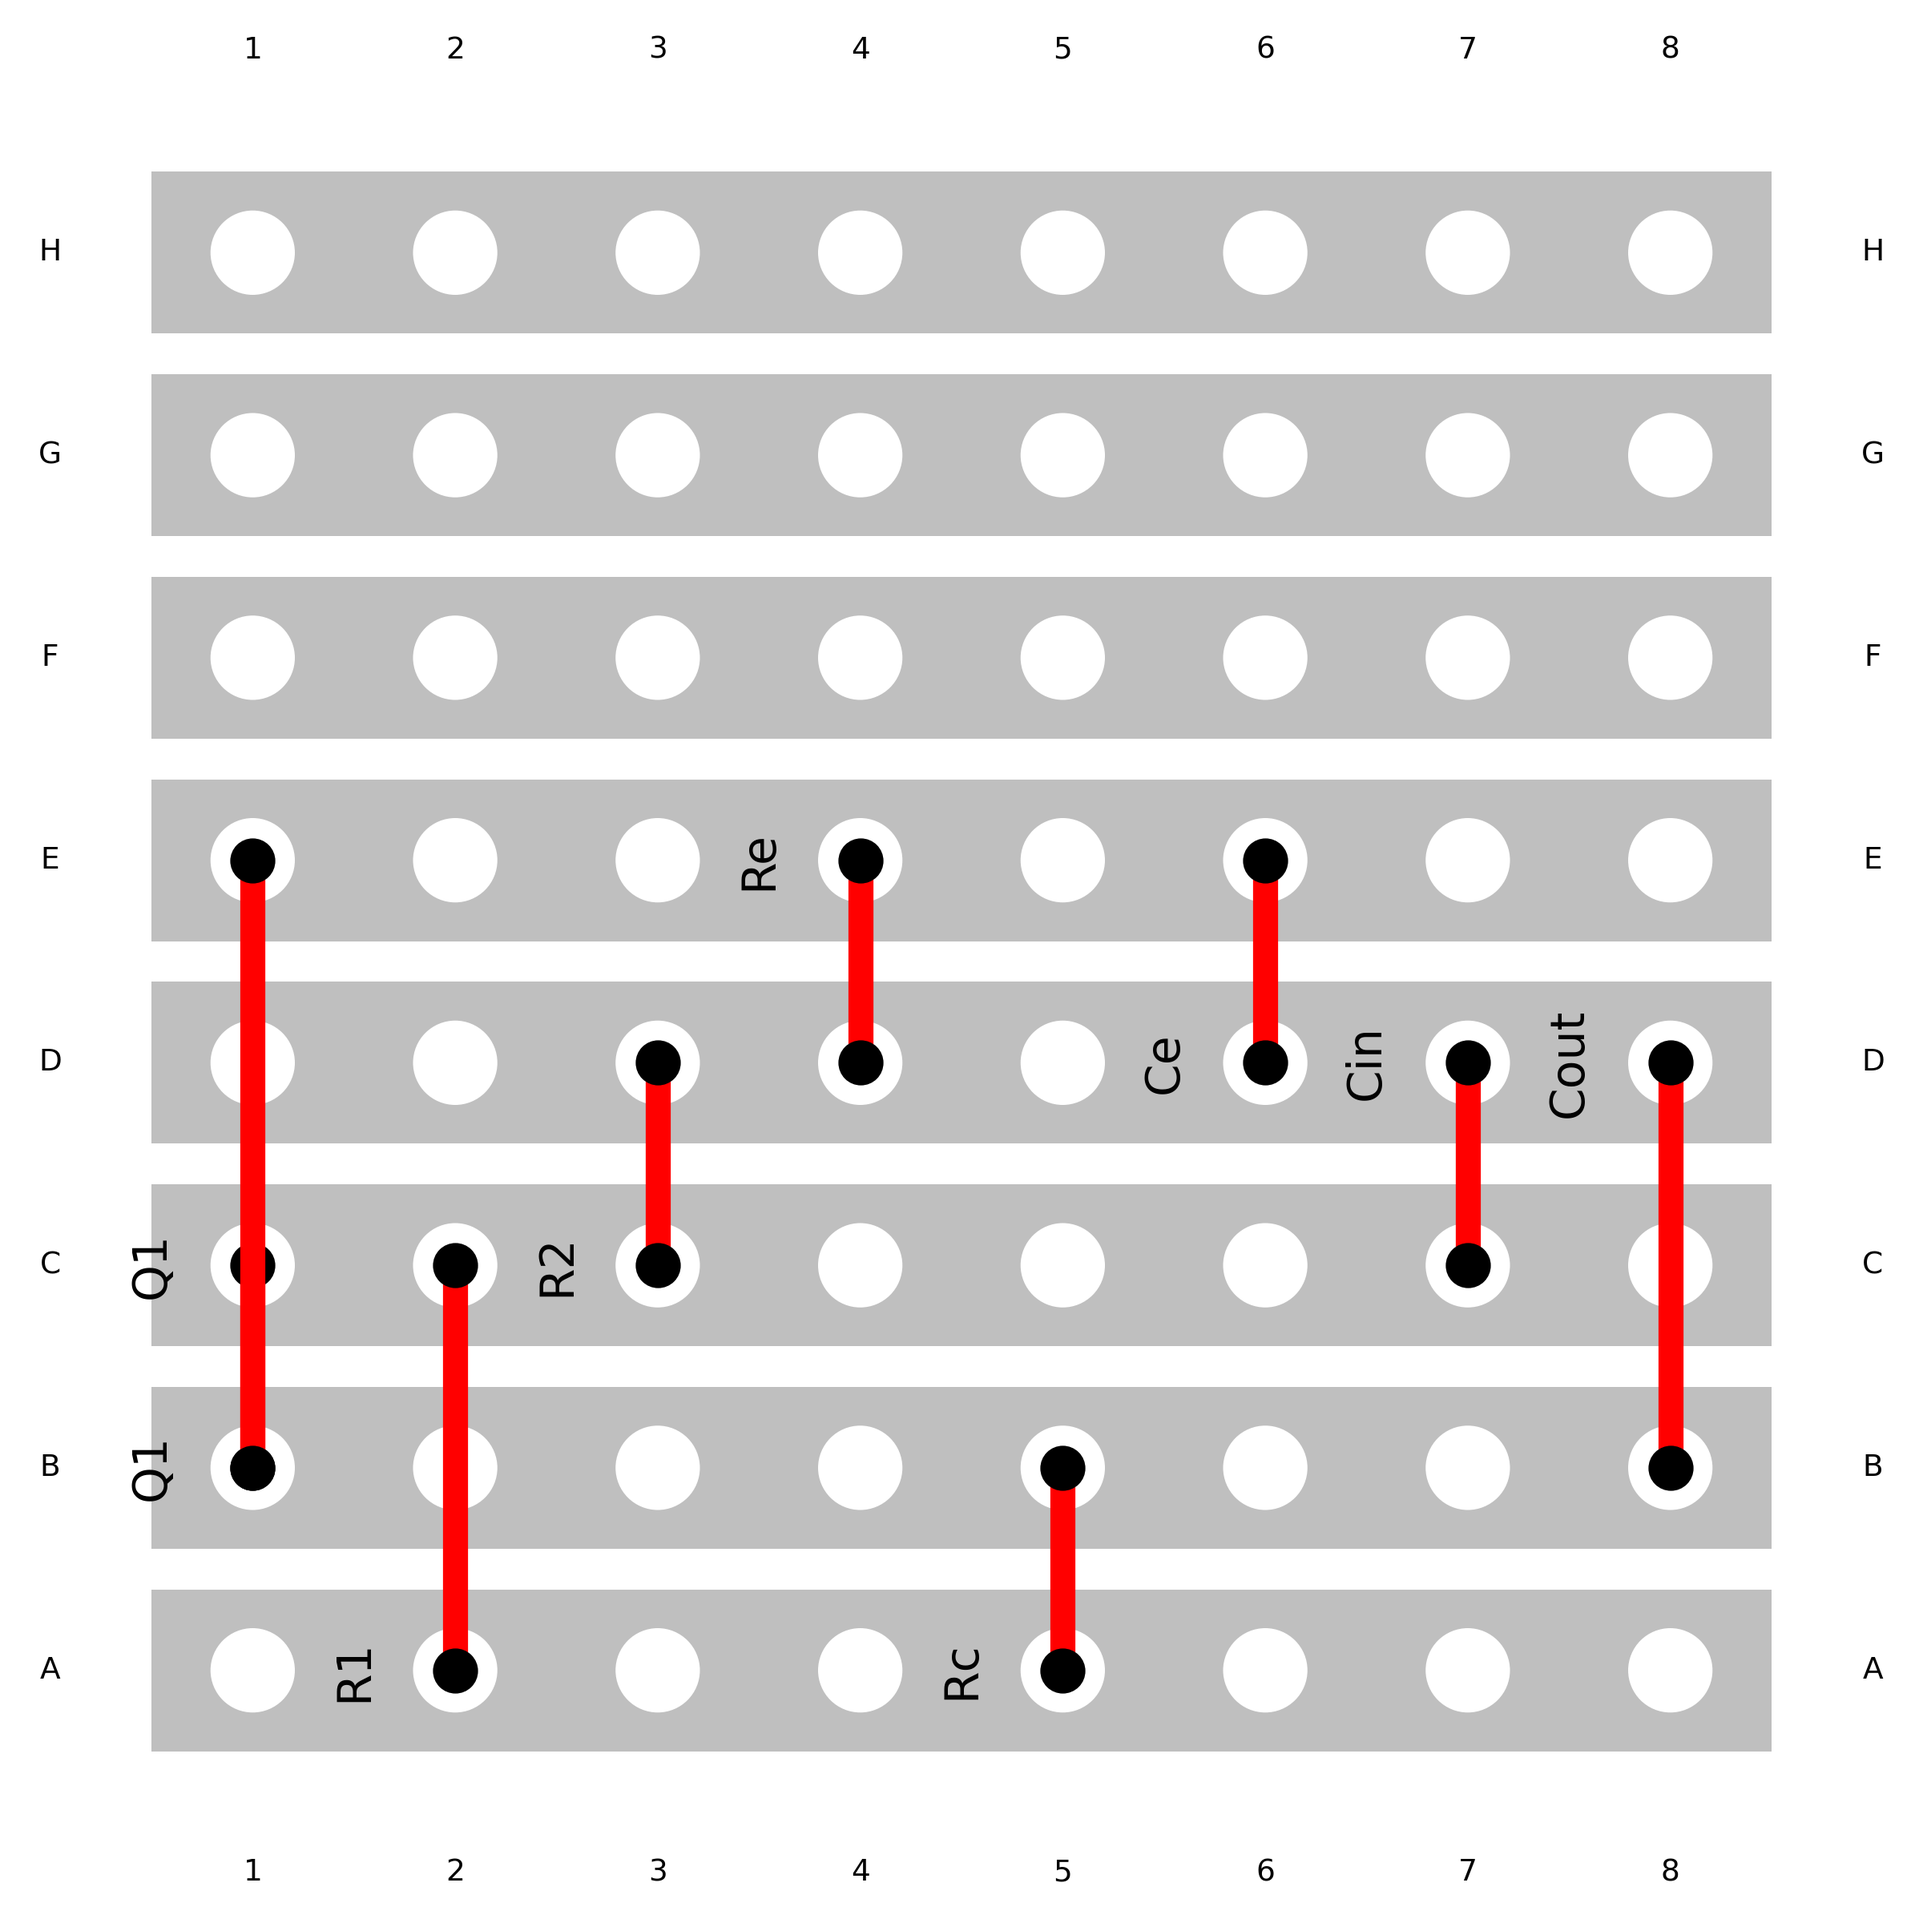
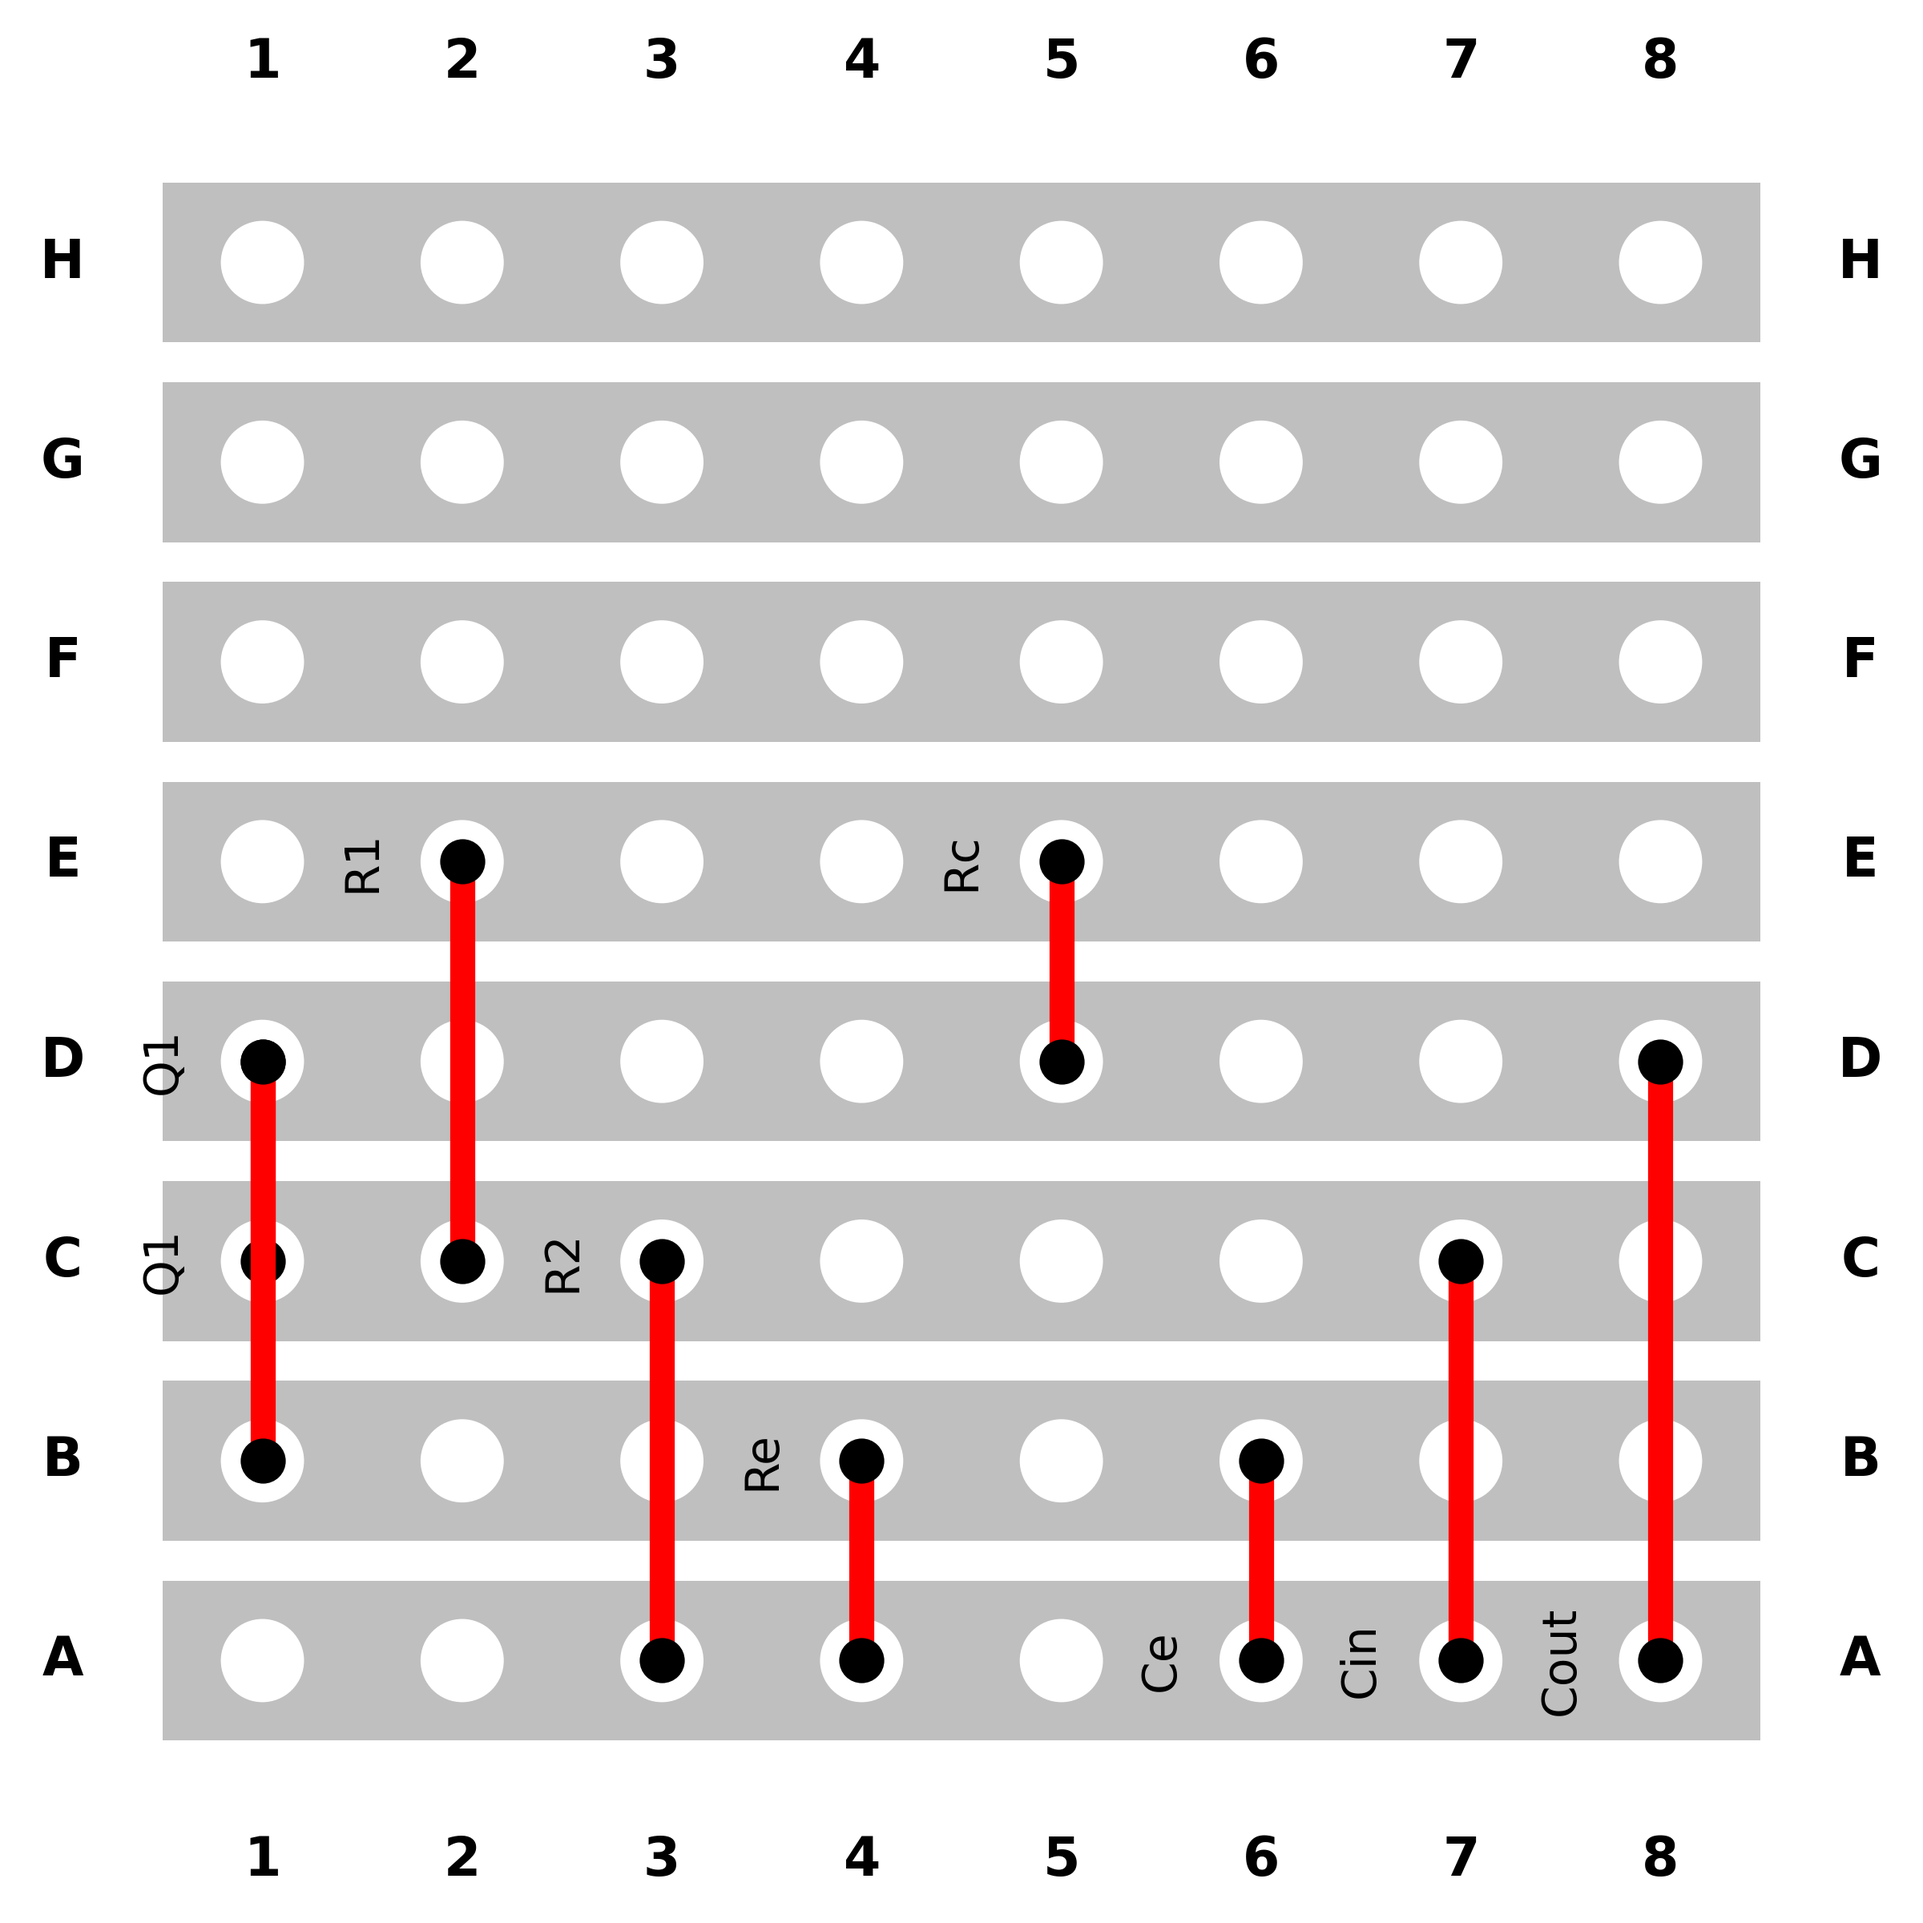
Update board strip annotations, and update graphic.

diff --git a/wadjet/graphics.py b/wadjet/graphics.py
@@ -45,7 +45,7 @@ class Stripboard:
                 str(x + 1),
                 ha="center",
                 va="center",
-                fontsize=12,
+                fontsize=16,
                 fontweight="bold",
                 color="black",
             )
@@ -55,7 +55,7 @@ class Stripboard:
                 str(x + 1),
                 ha="center",
                 va="center",
-                fontsize=12,
+                fontsize=16,
                 fontweight="bold",
                 color="black",
             )
@@ -67,7 +67,7 @@ class Stripboard:
                 string.ascii_uppercase[y],
                 ha="center",
                 va="center",
-                fontsize=12,
+                fontsize=16,
                 fontweight="bold",
                 color="black",
             )
@@ -77,7 +77,7 @@ class Stripboard:
                 string.ascii_uppercase[y],
                 ha="center",
                 va="center",
-                fontsize=12,
+                fontsize=16,
                 fontweight="bold",
                 color="black",
             )
